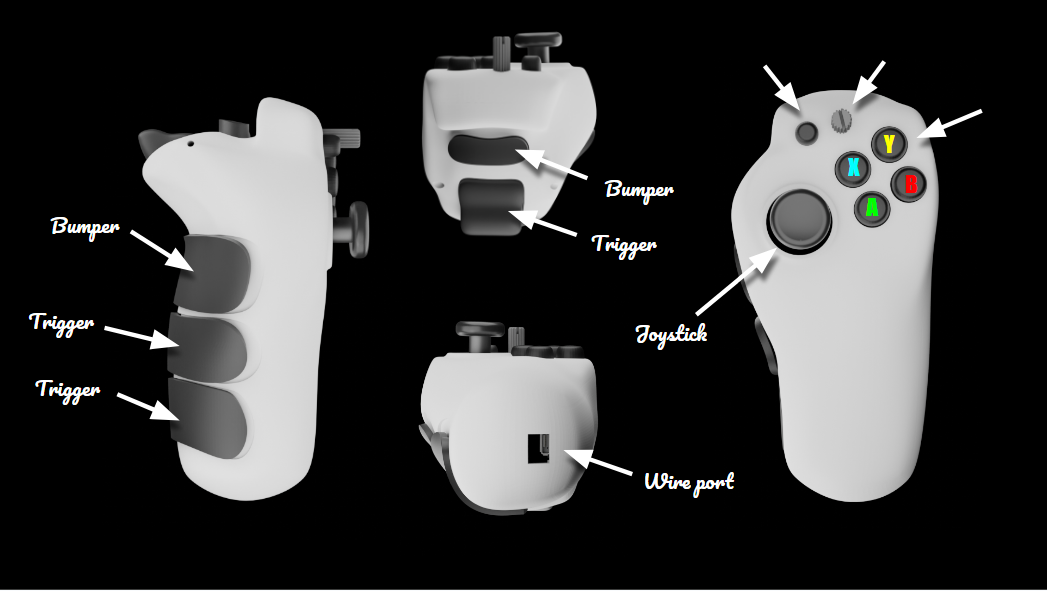
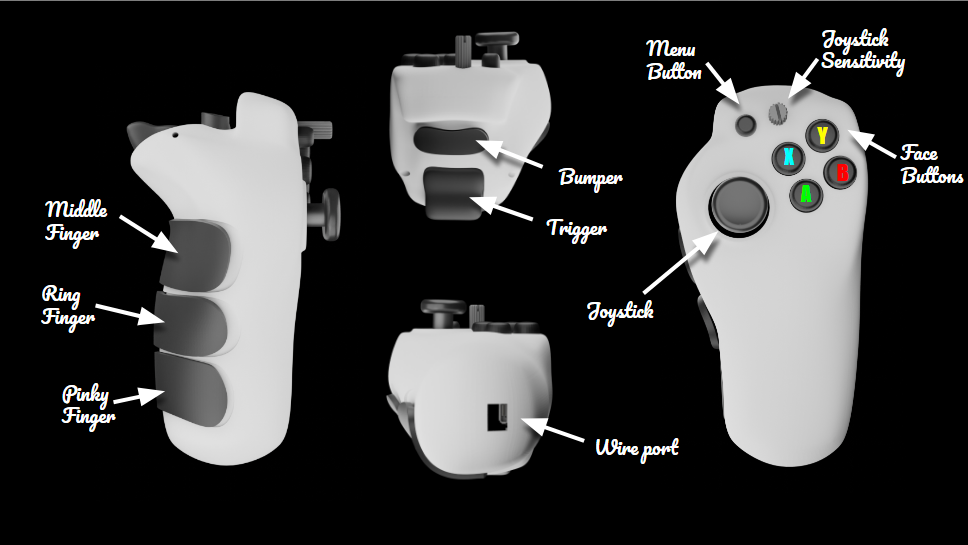
adding the finishing touches

diff --git a/spud html/Functionality.html b/spud html/Functionality.html
@@ -28,28 +28,28 @@
       <h1>Controller Functionality</h1>
 
       <h2>Digital Prototyping</h2>
-      <p>The SPUD controller was initially designed as a modular system...</p>
+      <p>The SPUD controller was initially designed as a two part system. The first part was a handheld controller that was used to control the second part, a wearable controller. each controlling the major functionality and the movement around a 3D space respectively.</p>
 
       <div class="image-placeholder">
         <a href="../Images-capstone/Handheld controller.png" target="_blank">
-          <img src="../Images-capstone/Handheld controller.png" alt="Handheld Wiring Diagram" class="centered-image" style="width: 45%; height: auto;">
+          <img src="../Images-capstone/Handheld controller.png" alt="Handheld Wiring Diagram" class="centered-image" style="width: 60%; height: auto;">
         </a>
       </div>
 
-      <p>The handheld controller integrates four buttons, a joystick, and an accelerometer...</p>
+      <p>The handheld controller integrates four buttons, a joystick, and an accelerometer. Doing most of the heavy lifting when it comes to the functionality of the system.</p>
 
       <div class="image-placeholder">
         <a href="../Images-capstone/wearable controller.png" target="_blank">
-          <img src="../Images-capstone/wearable controller.png" alt="Wearable Controller Diagram" class="centered-image" style="width: 45%; height: auto;">
+          <img src="../Images-capstone/wearable controller.png" alt="Wearable Controller Diagram" class="centered-image" style="width: 60%; height: auto;">
         </a>
       </div>
 
-      <p>The wearable controller features only a microcontroller and an accelerometer...</p>
+      <p>The wearable controller features only a microcontroller and an accelerometer to control teh players aim in a 3D environtment.</p>
     </section>
 
     <section class="section">
       <h2>First Prototype Demo</h2>
-      <p>This video demonstrates the functionality...</p>
+      <p>This video demonstrates the functionality of the first iteration of SPUD.</p>
       
       <div class="video-wrapper">
         <a href="../Images-capstone/first prototype.jpg" target="_blank">
@@ -67,7 +67,7 @@
 
     <section class="section">
       <h2>Second Prototype Demo</h2>
-      <p>This video showcases key enhancements...</p>
+      <p>This video showcases key enhancements that we made from the first controller.</p>
       <div class="video-wrapper">
         <a href="../Images-capstone/Second controller.JPG" target="_blank">
           <video controls width="500px" poster="../Images-capstone/Second controller.JPG">
@@ -90,7 +90,7 @@
             <img src="../Images-capstone/finger pins.png" alt="Finger Pins" class="component-image">
           </a>
           <h3>Finger Pins</h3>
-          <p>Custom-designed pins that provide tactile feedback...</p>
+          <p>Custom-designed pins that provide tactile feedback.</p>
         </div>
 
         <div class="component-item">
@@ -98,7 +98,7 @@
             <img src="../Images-capstone/menu button.png" alt="Menu Button" class="component-image">
           </a>
           <h3>Menu Button</h3>
-          <p>Ergonomically positioned menu button with a raised profile...</p>
+          <p>Ergonomically positioned menu button with a raised profile.</p>
         </div>
 
         <div class="component-item">
@@ -106,7 +106,7 @@
             <img src="../Images-capstone/face button.png" alt="Face Button" class="component-image">
           </a>
           <h3>Face Button</h3>
-          <p>Dome-shaped face button designed for quick actuation...</p>
+          <p>Dome-shaped face button designed for quick actuation.</p>
         </div>
 
         <div class="bottom-row-container">
@@ -115,7 +115,7 @@
               <img src="../Images-capstone/Button Enclosure.png" alt="Button Enclosure" class="component-image">
             </a>
             <h3>Button Enclosure</h3>
-            <p>Protective housing that securely contains button mechanisms...</p>
+            <p>Protective housing that securely contains button mechanisms.</p>
           </div>
 
           <div class="component-item">
@@ -123,7 +123,7 @@
               <img src="../Images-capstone/bumper pin.png" alt="Bumper Pin" class="component-image">
             </a>
             <h3>Bumper Pin</h3>
-            <p>Specialized pin design for bumper controls...</p>
+            <p>Specialized pin design for bumper controls.</p>
           </div>
         </div>
       </div>
@@ -131,7 +131,7 @@
 
     <section class="section">
       <h2>Final Controller Design</h2>
-      <p>The culmination of our design process resulted in...</p>
+      <p>The culmination of our design process resulted in.</p>
       <div class="final-photos-grid">
         <div class="final-photo-item">
           <a href="../Images-capstone/Open.png" target="_blank">

diff --git a/spud html/Form.html b/spud html/Form.html
@@ -73,7 +73,7 @@
 
     <div class="timeline-entry">
       <div class="timeline-marker" onclick="scrollToSection('final-section')" title="Go to Final Design"></div>
-      <div class="timeline-label">Final Design - March 2025</div>
+      <div class="timeline-label">Final Design - April 2025</div>
     </div>
 
   </div>
@@ -137,17 +137,9 @@
 
       <section class="design-section" id="second-design">
         <h2>Second Digital Design</h2>
-        <div class="iterations-container">
-          <div class="iteration-wrapper">
-            <div class="iteration-item">
-              <img src="../Images-capstone/Womp top.png" alt="WOMP Top View" class="enlargeable-image">
-            </div>
-          </div>
-          
-          <div class="iteration-wrapper">
-            <div class="iteration-item">
-              <img src="../Images-capstone/womp bottom.png" alt="WOMP Bottom View" class="enlargeable-image">
-            </div>
+        <div class="single-model-container">
+          <div class="iteration-item large-model">
+            <img src="../Images-capstone/Womp Model.png" alt="Second Design Model" class="enlargeable-image">
           </div>
         </div>
         <p class="design-caption">The second digital model included a lot more functionality as well as a more ergonomic design. Straying away from the ambidextrous design, we focused on creating a more ergonomic design that was more comfortable for one-handed use. It also included a wrist strap that we heard a lot of people wanted in the first round of testing.</p>

diff --git a/Stylesheets/functionality.css b/Stylesheets/functionality.css
@@ -65,9 +65,9 @@ p {
   align-items: center;
   display: flex;
   flex-wrap: wrap;
-  gap: 30px;
+  gap: 40px;
   justify-content: center;
-  margin: 50px 0;
+  margin: 60px 0;
 }
 
 .centered-image {
@@ -75,10 +75,12 @@ p {
   border-radius: 15px;
   box-shadow: 0 8px 20px rgba(0, 0, 0, 0.1);
   height: auto;
-  max-width: 400px;
+  max-width: 800px;
   object-fit: contain;
   transition: transform 0.3s ease, box-shadow 0.3s ease;
   width: 100%;
+  margin: 30px auto;
+  padding: 30px;
 }
 
 .centered-image:hover {
@@ -224,6 +226,12 @@ p {
   background-color: var(--light-gray);
   border-radius: 8px;
   padding: 20px;
+}
+
+.components-grid > .component-item:nth-child(1) .component-image,
+.components-grid > .component-item:nth-child(2) .component-image {
+  height: 270px;
+  padding: 28px;
 }
 
 .component-item h3 {

diff --git a/Stylesheets/form.css b/Stylesheets/form.css
@@ -502,3 +502,37 @@ html {
 #second-design .enlargeable-image {
     max-width: 600px !important;  /* Reduced from 700px */
 }
+
+.womp-image-container {
+  display: flex;
+  justify-content: center;
+  gap: 40px;
+  margin: 40px 0;
+  padding: 0 20px;
+  flex-wrap: wrap;
+}
+
+.womp-image-container img {
+  max-width: 45%;
+  height: auto;
+  object-fit: contain;
+  border-radius: 10px;
+  box-shadow: 0 4px 8px rgba(0, 0, 0, 0.1);
+  transition: transform 0.3s ease;
+}
+
+.womp-image-container img:hover {
+  transform: translateY(-5px);
+}
+
+@media (max-width: 768px) {
+  .womp-image-container {
+    flex-direction: column;
+    align-items: center;
+    gap: 30px;
+  }
+  
+  .womp-image-container img {
+    max-width: 100%;
+  }
+}
